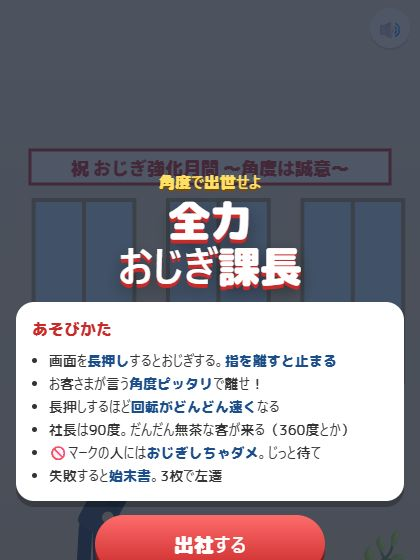
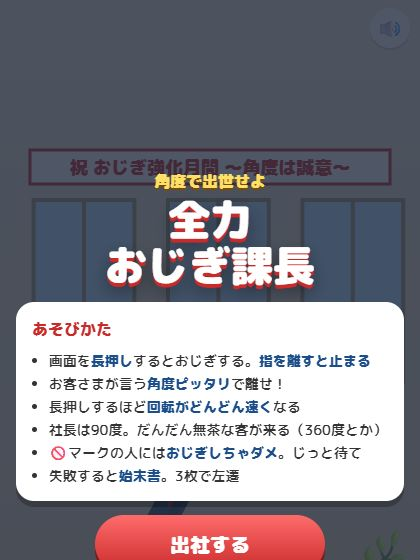
自動公開 / 更新: 全力おじぎ課長

Changed region(s): [[0.1238, 0.6071, 0.8976, 1.0], [0.2476, 0.2732, 0.8048, 0.5161], [0.1857, 0.2732, 0.2476, 0.3036]]

diff --git a/apps/zenryoku-ojigi/index.html b/apps/zenryoku-ojigi/index.html
@@ -85,7 +85,7 @@ button{font-family:inherit;color:inherit;border:0;background:none;cursor:pointer
 
 <script>
 /*! © kato200000354. 無断転載・複製・再配布を禁止します。 */
-(()=>{const t=document.getElementById("cv"),e=t.getContext("2d"),n=t=>document.getElementById(t);let o=0,a=0,i=1;function l(){i=Math.min(2,window.devicePixelRatio||1),o=innerWidth,a=innerHeight,t.width=o*i,t.height=a*i,t.style.width=o+"px",t.style.height=a+"px",e.setTransform(i,0,0,i,0,0)}addEventListener("resize",l),l();const r="zenryoku-ojigi-best";let s=null,f=!1,c=null;function d(){if(!s)try{s=new(window.AudioContext||window.webkitAudioContext)}catch(t){}return s&&"suspended"===s.state&&s.resume(),s}function h(t,e,n="square",o=.12,a=null,i=0){const l=d();if(!l||f)return;const r=l.currentTime+i,s=l.createOscillator(),c=l.createGain();s.type=n,s.frequency.setValueAtTime(t,r),a&&s.frequency.exponentialRampToValueAtTime(a,r+e),c.gain.setValueAtTime(o,r),c.gain.exponentialRampToValueAtTime(.001,r+e),s.connect(c).connect(l.destination),s.start(r),s.stop(r+e+.02)}function u(t,e=.2,n=800){const o=d();if(!o||f)return;const a=o.createBuffer(1,o.sampleRate*t,o.sampleRate),i=a.getChannelData(0);for(let t=0;t<i.length;t++)i[t]=(2*Math.random()-1)*(1-t/i.length);const l=o.createBufferSource(),r=o.createBiquadFilter(),s=o.createGain();r.type="highpass",r.frequency.value=n,s.gain.value=e,l.buffer=a,l.connect(r).connect(s).connect(o.destination),l.start()}function m(){if(c){try{c.g.gain.setTargetAtTime(0,s.currentTime,.02),c.o.stop(s.currentTime+.1)}catch(t){}c=null}}const y={peko(){h(880,.08,"square",.1,660)},perfect(){[784,988,1175,1568].forEach((t,e)=>h(t,.14,"square",.09,null,.07*e))},good(){h(660,.1,"triangle",.15),h(880,.15,"triangle",.15,null,.08)},fail(){h(220,.35,"sawtooth",.13,110)},blow(){u(.6,.35,300),h(400,.5,"sine",.1,1600)},step(){h(180,.04,"triangle",.06)},thru(){h(523,.1,"sine",.12),h(659,.12,"sine",.12,null,.09)},paper(){u(.25,.2,2e3)}};n("mute").onclick=t=>{t.stopPropagation(),f=!f,n("mute").textContent=f?"🔇":"🔊",f&&m()};const g=[{n:"後輩",e:"🧑",t:[5,15],say:["ちっす","おつかれっす","会釈でいいっすよ"],c:"#4dabf7",from:0,w:3},{n:"部長",e:"👨💼",t:[30,30],say:["おう","ご苦労","30度な"],c:"#495057",from:0,w:3},{n:"取引先",e:"🧔",t:[45,45],say:["例の件、よろしく","どうもどうも"],c:"#868e96",from:0,w:3},{n:"社長",e:"👴",t:[90,90],say:["うむ","直角じゃ"],c:"#212529",from:1,w:3},{n:"猫",e:"🐈",ig:1,say:["にゃー（見てるだけ）","……"],from:2,w:1.2,sz:.8,body:0},{n:"母ちゃん",e:"👩",t:[7,7],say:["お弁当忘れてたよ","ちゃんと食べてる？"],c:"#f783ac",from:3,w:1},{n:"気まぐれ専務",e:"🤵",t:[11,170],say:["なんとなくこの角度","今日はこの気分"],c:"#5f3dc4",from:3,w:2},{n:"ハト",e:"🕊",t:[1,1],say:["ポッポー","クルックー"],from:4,w:1,sz:.7,body:0},{n:"会長",e:"🧓",t:[120,135],say:["90度では満足せんぞ","もっと深く！"],c:"#2b8a3e",from:4,w:2},{n:"あやしい勧誘",e:"🕴",ig:1,say:["いい壺あるんですけど…","ちょっとだけお話を"],from:5,w:1.3,sz:1,body:0},{n:"王様",e:"🤴",t:[150,160],say:["ひれ伏せ","余の前であるぞ"],c:"#e67700",from:6,w:1.5},{n:"モアイ",e:"🗿",t:[180,180],say:["……（180度）","……"],from:7,w:1.4,sz:1.6,body:0},{n:"マネキン",e:"🧍",ig:1,say:["…………","（無言）"],from:7,w:.9,sz:1.3,body:0},{n:"恐竜",e:"🦖",t:[270,270],say:["ガオー（270度で）","ガオガオ"],from:8,w:1.3,sz:1.6,body:0},{n:"ロボ",e:"🤖",t:[314,314],say:["円周率×100デ オネガイシマス","ピピ…314度"],c:"#adb5bd",from:9,w:1.2},{n:"宇宙人",e:"👽",t:[360,360],say:["ワレワレハ 一周ヲ 所望スル","ちょうど一周で"],c:"#69db7c",from:9,w:1.3},{n:"天使",e:"😇",t:[720,720],say:["二周でお願いね","くるくるっとね"],c:"#fff",from:12,w:1},{n:"忍者",e:"🥷",t:[450,540],say:["ニンニン（中途半端な周回で）","拙者にはこの角度で"],c:"#343a40",from:11,w:1},{n:"神",e:"🌞",t:[1080,1080],say:["三周せよ","我を敬え。三周で"],from:15,w:.9,sz:1.5,body:0},{n:"地球",e:"🌏",t:[1800,1800],say:["ぼくに5周して","自転より速く"],from:20,w:.6,sz:1.8,body:0}],M=122,x=235;let b="title",p=0,T=0,S=0,v=3,w=0,k=function(){try{return+localStorage.getItem(r)||0}catch(t){return 0}}(),P=0,L=0,R=0,A=!1,z=80,C=0,W=[],q=null,B=null,I=0,j=null,E=[],U=[],D=0,G=1,H=0,V=0,F=0,O=0;performance.now();function K(){return Math.min(1.7,1+.025*w)}function J(){const t=function(){const t=g.filter(t=>t.from<=w&&t!==B&&!(t.ig&&B&&B.ig));let e=t.reduce((t,e)=>t+e.w,0),n=Math.random()*e;for(const e of t)if(n-=e.w,n<=0)return e;return t[0]}();B=t;const e=t.ig?null:Math.round(t.t[0]+Math.random()*(t.t[1]-t.t[0])),n=t.ig?2.4:Math.max(2.4,function(t){const e=K(),n=60*e,o=40*e;return(-o+Math.sqrt(o*o+4*n*t))/(2*n)}(e)+3.6-Math.min(1.4,.05*w));q={d:t,target:e,x:620,y:0,rot:0,vx:0,vy:0,tilt:0,state:"in",say:t.say[Math.random()*t.say.length|0],pmax:n,p:n,react:null,mood:0},b="walkin"}function N(){p=0,T=0,S=0,v=3,w=0,H=0,V=0,F=0,O=0,P=0,z=80,C=0,B=null,E=[],U=[],n("title").hidden=!0,n("over").hidden=!0,n("hud").hidden=!1,Q(),J()}function Q(){n("hScore").innerHTML="<b>"+p.toLocaleString()+"</b> 点",n("hCombo").hidden=T<2,n("hCombo").textContent=T+"コンボ",n("hLife").textContent="始末書 "+(3-v)+"/3"+(1===v?" ⚠":"")}function X(){d(),"wait"===b&&(A=!0,R=0,L=0,b="bowing",function(){const t=d();if(!t||f)return;const e=t.createOscillator(),n=t.createGain();e.type="sawtooth",e.frequency.value=120,n.gain.value=.04,e.connect(n).connect(t.destination),e.start(),c={o:e,g:n}}())}function Y(){A&&(A=!1,m(),"bowing"===b&&function(){y.peko(),O++;const t=q,e=P;if(H+=e,V=Math.max(V,e),t.d.ig){const e="猫"===t.d.n?["にゃ？（引いてる）","フシャー！"]:"マネキン"===t.d.n?["（マネキンにおじぎした…）","（周りの目が痛い）"]:["お話聞いてくれるんですね！","壺、3つでいいですか？"];return _("あやしい勧誘"===t.d.n?"壺を買わされた！":"おじぎしなくていい相手！",$(e),!1)}const n=t.target,o=e-n,a=Math.abs(o),i=Math.max(2.5,.035*n),l=Math.max(8,.1*n);if(a<=i){T++,F++,S=Math.max(S,T);const e=Math.round((300+1.5*n)*(1+.15*(T-1)));p+=e,t.react=$(["うむ、見事！","よきかな","なんと美しい…","ほう…！"]),t.mood=1,j={txt:$(Z.perfect),sub:"+"+e,col:"#f08c00",err:o},y.perfect(),function(t,e,n,o,a){for(let i=0;i<o;i++){const o=Math.random()*Math.PI*2,i=120+320*Math.random();U.push({x:t,y:e,vx:Math.cos(o)*i,vy:Math.sin(o)*i-100,life:.9+.4*Math.random(),ch:a,col:n,rot:0,vr:10*(Math.random()-.5),sz:14+12*Math.random(),g:500})}}(nt(105.75),ot(-z-60),"#ffd43b",26,"★")}else{if(!(a<=l))return o<0?_("浅い！ "+Math.round(e)+"°",$(["無礼者！","なめとんのか","浅すぎる！","それで頭下げたつもり？"]),!1):o>Math.max(30,.35*n)?_("深すぎて吹っ飛ばした！",$(["うわあああ","風圧がーー！","ぎゃー"]),!0):_("深すぎ… "+Math.round(e)+"°",$(["こわい","そこまでせんでも","気持ち悪い…","引くわ"]),!1);{const e=Math.round((100+.5*n)*(1+.05*T));p+=e,t.react=$(["まあいいだろう","ふむ","次はがんばれよ"]),t.mood=1,j={txt:$(Z.good),sub:"+"+e+"（"+(o>0?"+":"")+Math.round(o)+"°）",col:"#2f9e44",err:o},y.good()}}I=1,b="judge",Q()}())}t.addEventListener("pointerdown",t=>{t.preventDefault(),X()}),addEventListener("pointerup",Y),addEventListener("pointercancel",Y),addEventListener("keydown",t=>{"Space"!==t.code||t.repeat||(t.preventDefault(),X())}),addEventListener("keyup",t=>{"Space"===t.code&&Y()});const Z={perfect:["神おじぎ！","角度職人！","完璧な角度！","おじぎの鑑！"],good:["まあよし","ギリ許す","惜しいけどOK"]},$=t=>t[Math.random()*t.length|0];function _(t,e,n){T=0,v--,q.react=e,q.mood=-1,j={txt:t,sub:"始末書 +1",col:"#e03131",err:0},n?(y.blow(),D=.5,q.state="fly",q.vx=900,q.vy=-700):y.fail(),setTimeout(()=>y.paper(),250);for(let t=0;t<4;t++)U.push({x:o*Math.random(),y:-20-80*Math.random(),vx:60*(Math.random()-.5),vy:120+80*Math.random(),life:2.5,ch:"📄",rot:6*Math.random(),vr:6*(Math.random()-.5),sz:26});I=1.3,b="judge",Q()}let tt=0,et=0;function nt(t){return tt+t*G}function ot(t){return et+t*G}function at(t){et=.8*a,tt=.22*o;const e=Math.min(o/430,.5*a/250),i=z+M+40,l=(et-Math.max(150,.2*a))/i,f=Math.min(e,l);if(G+=(f-G)*Math.min(1,t*(f<G?14:3)),"walkin"===b)q.x-=300*t,(performance.now()/180|0)%2==0&&Math.random()<.1&&y.step(),q.x<=x&&(q.x=x,b="wait",q.state="wait");else if("wait"===b)q.p-=t,q.p<=0&&(q.p=0,q.d.ig?function(){T++,S=Math.max(S,T),O++;const t=200+10*T;p+=t,q.mood=1,q.react="あやしい勧誘"===q.d.n?"チッ…":"猫"===q.d.n?"にゃ（満足）":"…………",j={txt:"スルー成功！",sub:"+"+t,col:"#1c7ed6",err:0},y.thru(),I=.9,b="judge",Q()}():(O++,H+=0,_("シカトしてしまった！",$(["挨拶もできんのか！","おい、無視か？","ほう…いい度胸だ"]),!1)));else if("bowing"===b){R+=t;const e=K();L=(40+120*R)*e,W.unshift(P),W.length=Math.min(W.length,6),P+=L*t,d=L,c&&s&&c.o.frequency.setTargetAtTime(110+.55*Math.min(d,2e3),s.currentTime,.03),L>700&&Math.random()<.4&&U.push({x:nt(0)+40*(Math.random()-.5),y:ot(-z),vx:400*(Math.random()-.5),vy:-200-200*Math.random(),life:.8,ch:"💧",rot:0,vr:0,sz:14,g:900}),C=30*Math.floor(P/360),P>99999&&Y()}else if("judge"===b)I-=t,q.mood>0&&(q.tilt+=(-.5-q.tilt)*Math.min(1,8*t)),q.mood<0&&"fly"!==q.state&&(q.tilt=.06*Math.sin(performance.now()/40)),I<=0&&(b="leave",q.state="fly"===q.state?"fly":"out");else if("leave"===b&&(P+=(0-P)*Math.min(1,7*t),Math.abs(P)<.5&&(P=0),q.tilt+=(0-q.tilt)*Math.min(1,6*t),"out"===q.state&&(q.x+=360*t),(q.x>620||q.y<-900)&&0===P)){if(v<=0)return function(){b="over",m();let t=ft[0][1];for(const[e,n]of ft)p>=e&&(t=n);const e=p>k;e&&(k=p,function(t){try{localStorage.setItem(r,t)}catch(t){}}(k));n("overMsg").innerHTML="貴殿のおじぎを評価し<br>下記の通り任命する",n("overRank").textContent=t+"（"+$(ct)+"）",n("overTbl").innerHTML="<tr><td>スコア</td><td>"+p.toLocaleString()+" 点</td></tr><tr><td>対応した人数</td><td>"+O+" 人</td></tr><tr><td>神おじぎ</td><td>"+F+" 回</td></tr><tr><td>最大コンボ</td><td>"+S+"</td></tr><tr><td>最深おじぎ</td><td>"+Math.round(V).toLocaleString()+"°</td></tr><tr><td>生涯おじぎ角度</td><td>"+Math.round(H).toLocaleString()+"°</td></tr>",n("overBest").textContent=e?"🎉 自己ベスト更新！":"ベスト "+k.toLocaleString()+" 点",setTimeout(()=>{n("over").hidden=!1,n("hud").hidden=!0},400)}();w++,J()}var d;"bowing"!==b&&(W.length=0,C+=(0-C)*Math.min(1,3*t)),q&&"fly"===q.state&&(q.x+=q.vx*t,q.y+=q.vy*t,q.vy+=300*t,q.rot+=14*t);const h=Math.max(80,-Math.cos(P*Math.PI/180)*M+28)+C;z=h>z?h:z+(h-z)*Math.min(1,4*t);for(const e of U)e.x+=e.vx*t,e.y+=e.vy*t,e.vy+=(e.g||0)*t,e.rot+=e.vr*t,e.life-=t;U=U.filter(t=>t.life>0&&t.y<a+60),D=Math.max(0,D-t)}function it(t,n,o,a,i){e.beginPath(),e.roundRect?e.roundRect(t,n,o,a,i):e.rect(t,n,o,a)}function lt(t,n){e.save(),e.globalAlpha=n,e.translate(0,-z),e.rotate(t*Math.PI/180),e.fillStyle="#34495e",it(-18,-74,36,78,9),e.fill(),e.fillStyle="#fff",e.beginPath(),e.moveTo(-9,-74),e.lineTo(9,-74),e.lineTo(0,-46),e.fill(),e.fillStyle="#e03131",e.beginPath(),e.moveTo(-3,-70),e.lineTo(3,-70),e.lineTo(4,-50),e.lineTo(0,-44),e.lineTo(-4,-50),e.fill(),e.strokeStyle="#2c3e50",e.lineWidth=11,e.lineCap="round",e.beginPath(),e.moveTo(6,-66),e.lineTo(9,-22),e.stroke(),e.fillStyle="#ffd8b1",e.beginPath(),e.arc(9,-17,6,0,7),e.fill(),e.fillStyle="#ffd8b1",e.fillRect(-6,-82,12,10),e.beginPath(),e.arc(0,-98,24,0,7),e.fill(),e.fillStyle="#1e1e1e",e.beginPath(),e.arc(0,-98,25,1.02*Math.PI,1.98*Math.PI),e.lineTo(18,-104),e.quadraticCurveTo(0,-116,-10,-108),e.lineTo(-22,-100),e.fill(),e.strokeStyle="#fff",e.lineWidth=1.5,e.beginPath(),e.moveTo(-8,-122),e.lineTo(-10,-108),e.stroke(),e.strokeStyle="#222",e.lineWidth=2.5,e.beginPath(),e.arc(12,-97,6.5,0,7),e.stroke(),e.beginPath(),e.moveTo(5,-98),e.lineTo(-14,-100),e.stroke(),e.fillStyle="#222",e.beginPath(),e.arc(14,-97,2.2,0,7),e.fill(),e.strokeStyle="#8a3b12",e.lineWidth=2,e.beginPath(),"bowing"===b&&L>500?e.arc(15,-84,4,0,7):e.arc(14,-87,4,.2,Math.PI-.2),e.stroke(),T>=3&&(e.fillStyle="rgba(255,100,100,.4)",e.beginPath(),e.arc(6,-88,5,0,7),e.fill()),e.restore()}function rt(){if(!q||"fly"===q.state||"wait"!==b&&"bowing"!==b&&"judge"!==b)return;const t=q,n=nt(t.x),a=ot(function(){const t=q.d.sz||1;return 0!==q.d.body?-170*t:-110*t}()),i="judge"===b&&t.react,l=Math.min(o-20,210);e.font='800 14px "M PLUS Rounded 1c",sans-serif';const r=function(t,n){const o=[];let a="";for(const i of t)e.measureText(a+i).width>n&&a?(o.push(a),a=i):a+=i;return a&&o.push(a),o}(i?t.react:t.say,l-24),s=!i&&"judge"!==b,f=16+(i?0:18)+19*r.length+(s?36:0);let c=Math.max(10,Math.min(o-l-10,n-l/2)),d=Math.max(196,a-f-18);e.fillStyle=i?t.mood>0?"#fff9db":"#ffe3e3":"#fff",e.strokeStyle="#333",e.lineWidth=2.5,it(c,d,l,f,14),e.fill(),e.stroke(),e.beginPath(),e.moveTo(Math.min(Math.max(n-10,c+16),c+l-30),d+f-1),e.lineTo(n,Math.min(d+f+16,a-2)),e.lineTo(Math.min(Math.max(n+10,c+26),c+l-20),d+f-1),e.fill(),e.stroke(),e.fillStyle="#333",e.textAlign="left",e.textBaseline="top";let h=d+9;i||(e.fillStyle="#868e96",e.font='800 12px "M PLUS Rounded 1c",sans-serif',e.fillText(t.d.n,c+12,h),h+=18,e.font='800 14px "M PLUS Rounded 1c",sans-serif',e.fillStyle="#333");for(const t of r)e.fillText(t,c+12,h),h+=19;if(s&&(e.textAlign="center",e.font='900 28px "M PLUS Rounded 1c",sans-serif',t.d.ig?(e.fillStyle="#1c7ed6",e.fillText("🚫おじぎ不要",c+l/2,h+2)):(e.fillStyle="#e03131",e.fillText(t.target+"°",c+l/2,h+2))),"wait"===b){const o=80,a=n-o/2,i=ot(0)+14;e.fillStyle="rgba(0,0,0,.3)",it(a,i,o,8,4),e.fill();const l=t.p/t.pmax;e.fillStyle=t.d.ig?"#4dabf7":l<.3?"#fa5252":"#51cf66",it(a,i,o*l,8,4),e.fill()}}function st(){e.save(),D>0&&e.translate((Math.random()-.5)*D*30,(Math.random()-.5)*D*30),function(){const t=e.createLinearGradient(0,0,0,et);t.addColorStop(0,"#f4ecd8"),t.addColorStop(1,"#e2d4b4"),e.fillStyle=t,e.fillRect(0,0,o,et),e.fillStyle="#bfe3ff";const n=Math.min(120,.24*o);for(let t=0;t<3;t++){const a=.08*o+t*(n+.08*o),i=Math.max(200,.32*et);if(a+n>o)break;e.fillRect(a,i,n,.3*et),e.strokeStyle="#a89870",e.lineWidth=4,e.strokeRect(a,i,n,.3*et),e.beginPath(),e.moveTo(a+n/2,i),e.lineTo(a+n/2,i+.3*et),e.stroke()}const i=Math.min(.86*o,360),l=(o-i)/2,r=Math.max(150,.2*et);e.fillStyle="#fff",e.fillRect(l,r,i,34),e.strokeStyle="#c92a2a",e.lineWidth=3,e.strokeRect(l,r,i,34),e.fillStyle="#c92a2a",e.font='900 18px "M PLUS Rounded 1c",sans-serif',e.textAlign="center",e.textBaseline="middle",e.fillText("祝 おじぎ強化月間 ～角度は誠意～",o/2,r+18),e.fillStyle="#9aa3ad",e.fillRect(0,et,o,a-et),e.strokeStyle="rgba(255,255,255,.25)",e.lineWidth=2;for(let t=-10;t<=10;t++)e.beginPath(),e.moveTo(o/2+40*t,et),e.lineTo(o/2+140*t,a),e.stroke();for(let t=et+14,n=14;t<a;n*=1.4,t+=n)e.beginPath(),e.moveTo(0,t),e.lineTo(o,t),e.stroke();e.fillStyle="#6c757d",e.fillRect(0,et-4,o,6);const s=o-34,f=et;e.fillStyle="#8d5524",it(s-16,f-40,32,40,4),e.fill(),e.font="52px sans-serif",e.textBaseline="alphabetic",e.fillText("🌿",s,f-34)}(),e.save(),e.translate(tt,et),e.scale(G,G),e.fillStyle="rgba(0,0,0,.18)",e.beginPath(),e.ellipse(2,0,34,7,0,0,7),e.fill(),q&&"fly"!==q.state&&(e.beginPath(),e.ellipse(q.x,0,32*(q.d.sz||1),7,0,0,7),e.fill()),function(){if(!q||q.d.ig||"wait"!==b&&"bowing"!==b)return;e.save(),e.translate(0,-z);const t=144;e.strokeStyle="rgba(0,0,0,.18)",e.lineWidth=3,e.setLineDash([6,8]),e.beginPath(),e.arc(0,0,t,0,7),e.stroke(),e.setLineDash([]);const n=q.target*Math.PI/180;e.strokeStyle="rgba(224,49,49,.85)",e.lineWidth=5,e.beginPath(),e.moveTo(130*Math.sin(n),130*-Math.cos(n)),e.lineTo(158*Math.sin(n),158*-Math.cos(n)),e.stroke(),e.fillStyle="#e03131",e.beginPath(),e.arc(164*Math.sin(n),164*-Math.cos(n),5,0,7),e.fill(),e.restore()}(),function(){if(!q)return;const t=q,n=t.d,o=n.sz||1;e.save(),e.translate(t.x,t.y),"fly"===t.state&&(e.translate(0,-80*o),e.rotate(t.rot),e.translate(0,80*o)),e.scale(o,o),e.textAlign="center",e.textBaseline="middle";const a="walkin"===b||"out"===t.state?.35*Math.sin(performance.now()/70):0;0!==n.body?(e.strokeStyle="#222",e.lineWidth=12,e.lineCap="round",e.beginPath(),e.moveTo(-6,-50),e.lineTo(24*Math.sin(a)-6,-6),e.moveTo(6,-50),e.lineTo(6-24*Math.sin(a),-6),e.stroke(),e.translate(0,-50),e.rotate(t.tilt),e.fillStyle=n.c||"#555",it(-21,-66,42,70,11),e.fill(),e.strokeStyle="rgba(0,0,0,.15)",e.lineWidth=2,e.stroke(),e.font="58px sans-serif",e.fillText(n.e,0,-92)):(e.translate(0,-10),e.rotate(.6*t.tilt+.15*a),e.font="90px sans-serif",e.fillText(n.e,0,-38)),e.restore()}(),e.strokeStyle="#2b3a55",e.lineWidth=14,e.lineCap="round",e.beginPath(),e.moveTo(-7,-z),e.lineTo(-11,-8),e.moveTo(7,-z),e.lineTo(9,-8),e.stroke(),e.fillStyle="#111",e.beginPath(),e.ellipse(-6,-4,13,6,0,0,7),e.ellipse(15,-4,13,6,0,0,7),e.fill(),z>100&&(e.fillStyle="#2b3a55",e.font="900 12px sans-serif",e.textAlign="center",e.fillStyle="rgba(0,0,0,.35)",e.fillText("ﾋﾞﾖｰﾝ",-30,-z/2)),W.forEach((t,e)=>{L>300&&e%2==1&&lt(t,.18)}),lt(P,1),e.restore(),rt(),function(){if("title"===b)return;const t=Math.max(82,.11*a);if(e.textAlign="center",e.textBaseline="middle",q&&("wait"===b||"bowing"===b||"judge"===b)&&!q.d.ig){e.font="900 "+Math.min(64,.16*o)+'px "M PLUS Rounded 1c",sans-serif',e.lineWidth=8,e.strokeStyle="#fff",e.strokeText(Math.floor(P)+"°",o/2,t),e.fillStyle="bowing"===b?"#c92a2a":"#34495e",e.fillText(Math.floor(P)+"°",o/2,t),e.font='800 15px "M PLUS Rounded 1c",sans-serif',e.fillStyle="#495057";const n=q.target,a=Math.floor(n/360);e.fillText("目標 "+n+"°"+(a?"（"+a+"周＋"+n%360+"°）":""),o/2,t+Math.min(40,.1*o))}if("wait"===b&&w<2&&(e.font='900 18px "M PLUS Rounded 1c",sans-serif',e.fillStyle="rgba(0,0,0,.55)",e.fillText(q.d.ig?"押さずに待て…":"長押しでおじぎ → 目標で離す！",o/2,et+.55*(a-et))),"judge"===b&&j){const t=.6+.4*Math.min(1,6*(1.3-I))+0;e.save(),e.translate(o/2,.42*a),e.scale(t,t),e.font="900 "+Math.min(48,.11*o,(o-28)/j.txt.length)+'px "M PLUS Rounded 1c",sans-serif',e.lineWidth=9,e.strokeStyle="#fff",e.strokeText(j.txt,0,0),e.fillStyle=j.col,e.fillText(j.txt,0,0),e.font='900 22px "M PLUS Rounded 1c",sans-serif',e.lineWidth=6,e.strokeText(j.sub,0,44),e.fillText(j.sub,0,44),e.restore()}}(),function(){e.textAlign="center",e.textBaseline="middle";for(const t of U)e.save(),e.globalAlpha=Math.min(1,2*t.life),e.translate(t.x,t.y),e.rotate(t.rot),"★"===t.ch?(e.fillStyle=t.col,e.font="900 "+t.sz+"px sans-serif",e.fillText("★",0,0)):(e.font=t.sz+"px sans-serif",e.fillText(t.ch,0,0)),e.restore()}(),e.restore()}const ft=[[0,"新入社員"],[1500,"係長"],[4e3,"課長"],[8e3,"部長"],[14e3,"専務"],[22e3,"社長"],[35e3,"会長"],[5e4,"おじぎの神"]],ct=["南極支社","月面出張所","無人島営業所","地下100m支店","火星支社","砂漠の真ん中出張所"];n("bStart").onclick=()=>{d(),N()},n("bRetry").onclick=()=>{d(),N()},n("bestT").textContent=k?"ベスト "+k.toLocaleString()+" 点":"";let dt=performance.now();requestAnimationFrame(function t(e){const n=Math.min(.05,(e-dt)/1e3);dt=e,"title"!==b&&"over"!==b||"title"!==b?at(n):function(t){et=.8*a,tt=.22*o;const e=performance.now()/1e3;P=200*(.5*Math.sin(1.3*e)+.5);const n=Math.max(80,-Math.cos(P*Math.PI/180)*M+28);z=n>z?n:z+(n-z)*Math.min(1,4*t);const i=Math.min(o/430,.5*a/250);G=Math.min(i,(et-150)/(z+M+40))}(n),st(),requestAnimationFrame(t)})})();
+(()=>{const t=document.getElementById("cv"),e=t.getContext("2d"),n=t=>document.getElementById(t);let o=0,a=0,i=1;function l(){i=Math.min(2,window.devicePixelRatio||1),o=innerWidth,a=innerHeight,t.width=o*i,t.height=a*i,t.style.width=o+"px",t.style.height=a+"px",e.setTransform(i,0,0,i,0,0)}addEventListener("resize",l),l();const r="zenryoku-ojigi-best";let s=null,f=!1,c=null;function d(){if(!s)try{s=new(window.AudioContext||window.webkitAudioContext)}catch(t){}return s&&"suspended"===s.state&&s.resume(),s}function h(t,e,n="square",o=.12,a=null,i=0){const l=d();if(!l||f)return;const r=l.currentTime+i,s=l.createOscillator(),c=l.createGain();s.type=n,s.frequency.setValueAtTime(t,r),a&&s.frequency.exponentialRampToValueAtTime(a,r+e),c.gain.setValueAtTime(o,r),c.gain.exponentialRampToValueAtTime(.001,r+e),s.connect(c).connect(l.destination),s.start(r),s.stop(r+e+.02)}function u(t,e=.2,n=800){const o=d();if(!o||f)return;const a=o.createBuffer(1,o.sampleRate*t,o.sampleRate),i=a.getChannelData(0);for(let t=0;t<i.length;t++)i[t]=(2*Math.random()-1)*(1-t/i.length);const l=o.createBufferSource(),r=o.createBiquadFilter(),s=o.createGain();r.type="highpass",r.frequency.value=n,s.gain.value=e,l.buffer=a,l.connect(r).connect(s).connect(o.destination),l.start()}function m(){if(c){try{c.g.gain.setTargetAtTime(0,s.currentTime,.02),c.o.stop(s.currentTime+.1)}catch(t){}c=null}}const y={peko(){h(880,.08,"square",.1,660)},perfect(){[784,988,1175,1568].forEach((t,e)=>h(t,.14,"square",.09,null,.07*e))},good(){h(660,.1,"triangle",.15),h(880,.15,"triangle",.15,null,.08)},fail(){h(220,.35,"sawtooth",.13,110)},blow(){u(.6,.35,300),h(400,.5,"sine",.1,1600)},step(){h(180,.04,"triangle",.06)},thru(){h(523,.1,"sine",.12),h(659,.12,"sine",.12,null,.09)},paper(){u(.25,.2,2e3)}};n("mute").onclick=t=>{t.stopPropagation(),f=!f,n("mute").textContent=f?"🔇":"🔊",f&&m()};const g=[{n:"後輩",e:"🧑",t:[5,15],say:["ちっす","おつかれっす","会釈でいいっすよ"],c:"#4dabf7",from:0,w:3},{n:"部長",e:"👨💼",t:[30,30],say:["おう","ご苦労","30度な"],c:"#495057",from:0,w:3},{n:"取引先",e:"🧔",t:[45,45],say:["例の件、よろしく","どうもどうも"],c:"#868e96",from:0,w:3},{n:"社長",e:"👴",t:[90,90],say:["うむ","直角じゃ"],c:"#212529",from:1,w:3},{n:"猫",e:"🐈",ig:1,say:["にゃー（見てるだけ）","……"],from:2,w:1.2,sz:.8,body:0},{n:"母ちゃん",e:"👩",t:[7,7],say:["お弁当忘れてたよ","ちゃんと食べてる？"],c:"#f783ac",from:3,w:1},{n:"気まぐれ専務",e:"🤵",t:[11,170],say:["なんとなくこの角度","今日はこの気分"],c:"#5f3dc4",from:3,w:2},{n:"ハト",e:"🕊",t:[1,1],say:["ポッポー","クルックー"],from:4,w:1,sz:.7,body:0},{n:"会長",e:"🧓",t:[120,135],say:["90度では満足せんぞ","もっと深く！"],c:"#2b8a3e",from:4,w:2},{n:"あやしい勧誘",e:"🕴",ig:1,say:["いい壺あるんですけど…","ちょっとだけお話を"],from:5,w:1.3,sz:1,body:0},{n:"王様",e:"🤴",t:[150,160],say:["ひれ伏せ","余の前であるぞ"],c:"#e67700",from:6,w:1.5},{n:"モアイ",e:"🗿",t:[180,180],say:["……（180度）","……"],from:7,w:1.4,sz:1.6,body:0},{n:"マネキン",e:"🧍",ig:1,say:["…………","（無言）"],from:7,w:.9,sz:1.3,body:0},{n:"恐竜",e:"🦖",t:[270,270],say:["ガオー（270度で）","ガオガオ"],from:8,w:1.3,sz:1.6,body:0},{n:"ロボ",e:"🤖",t:[314,314],say:["円周率×100デ オネガイシマス","ピピ…314度"],c:"#adb5bd",from:9,w:1.2},{n:"宇宙人",e:"👽",t:[360,360],say:["ワレワレハ 一周ヲ 所望スル","ちょうど一周で"],c:"#69db7c",from:9,w:1.3},{n:"天使",e:"😇",t:[720,720],say:["二周でお願いね","くるくるっとね"],c:"#fff",from:12,w:1},{n:"忍者",e:"🥷",t:[450,540],say:["ニンニン（中途半端な周回で）","拙者にはこの角度で"],c:"#343a40",from:11,w:1},{n:"神",e:"🌞",t:[1080,1080],say:["三周せよ","我を敬え。三周で"],from:15,w:.9,sz:1.5,body:0},{n:"地球",e:"🌏",t:[1800,1800],say:["ぼくに5周して","自転より速く"],from:20,w:.6,sz:1.8,body:0}],M=122,x=235;let b="title",p=0,T=0,S=0,v=3,w=0,k=function(){try{return+localStorage.getItem(r)||0}catch(t){return 0}}(),P=0,L=0,R=0,A=!1,z=80,C=0,W=[],q=null,B=null,I=0,j=null,E=[],U=[],D=0,G=1,H=0,V=0,F=0,O=0;performance.now();function K(){return Math.min(1.7,1+.025*w)}function J(){const t=function(){const t=g.filter(t=>t.from<=w&&t!==B&&!(t.ig&&B&&B.ig));let e=t.reduce((t,e)=>t+e.w,0),n=Math.random()*e;for(const e of t)if(n-=e.w,n<=0)return e;return t[0]}();B=t;const e=t.ig?null:Math.round(t.t[0]+Math.random()*(t.t[1]-t.t[0])),n=t.ig?2.4:Math.max(2.4,function(t){const e=K(),n=60*e,o=40*e;return(-o+Math.sqrt(o*o+4*n*t))/(2*n)}(e)+3.6-Math.min(1.4,.05*w));q={d:t,target:e,x:620,y:0,rot:0,vx:0,vy:0,tilt:0,state:"in",say:t.say[Math.random()*t.say.length|0],pmax:n,p:n,react:null,mood:0},b="walkin"}function N(){p=0,T=0,S=0,v=3,w=0,H=0,V=0,F=0,O=0,P=0,z=80,C=0,B=null,E=[],U=[],n("title").hidden=!0,n("over").hidden=!0,n("hud").hidden=!1,Q(),J()}function Q(){n("hScore").innerHTML="<b>"+p.toLocaleString()+"</b> 点",n("hCombo").hidden=T<2,n("hCombo").textContent=T+"コンボ",n("hLife").textContent="始末書 "+(3-v)+"/3"+(1===v?" ⚠":"")}function X(){d(),"wait"===b&&(A=!0,R=0,L=0,b="bowing",function(){const t=d();if(!t||f)return;const e=t.createOscillator(),n=t.createGain();e.type="sawtooth",e.frequency.value=120,n.gain.value=.04,e.connect(n).connect(t.destination),e.start(),c={o:e,g:n}}())}function Y(){A&&(A=!1,m(),"bowing"===b&&function(){y.peko(),O++;const t=q,e=P;if(H+=e,V=Math.max(V,e),t.d.ig){const e="猫"===t.d.n?["にゃ？（引いてる）","フシャー！"]:"マネキン"===t.d.n?["（マネキンにおじぎした…）","（周りの目が痛い）"]:["お話聞いてくれるんですね！","壺、3つでいいですか？"];return _("あやしい勧誘"===t.d.n?"壺を買わされた！":"おじぎしなくていい相手！",$(e),!1)}const n=t.target,o=e-n,a=Math.abs(o),i=Math.max(2.5,.035*n),l=Math.max(8,.1*n);if(a<=i){T++,F++,S=Math.max(S,T);const e=Math.round((300+1.5*n)*(1+.15*(T-1)));p+=e,t.react=$(["うむ、見事！","よきかな","なんと美しい…","ほう…！"]),t.mood=1,j={txt:$(Z.perfect),sub:"+"+e,col:"#f08c00",err:o},y.perfect(),function(t,e,n,o,a){for(let i=0;i<o;i++){const o=Math.random()*Math.PI*2,i=120+320*Math.random();U.push({x:t,y:e,vx:Math.cos(o)*i,vy:Math.sin(o)*i-100,life:.9+.4*Math.random(),ch:a,col:n,rot:0,vr:10*(Math.random()-.5),sz:14+12*Math.random(),g:500})}}(nt(105.75),ot(-z-60),"#ffd43b",26,"★")}else{if(!(a<=l))return o<0?_("浅い！ "+Math.round(e)+"°",$(["無礼者！","なめとんのか","浅すぎる！","それで頭下げたつもり？"]),!1):o>Math.max(30,.35*n)?_("深すぎて吹っ飛ばした！",$(["うわあああ","風圧がーー！","ぎゃー"]),!0):_("深すぎ… "+Math.round(e)+"°",$(["こわい","そこまでせんでも","気持ち悪い…","引くわ"]),!1);{const e=Math.round((100+.5*n)*(1+.05*T));p+=e,t.react=$(["まあいいだろう","ふむ","次はがんばれよ"]),t.mood=1,j={txt:$(Z.good),sub:"+"+e+"（"+(o>0?"+":"")+Math.round(o)+"°）",col:"#2f9e44",err:o},y.good()}}I=1,b="judge",Q()}())}t.addEventListener("pointerdown",t=>{t.preventDefault(),X()}),addEventListener("pointerup",Y),addEventListener("pointercancel",Y),addEventListener("keydown",t=>{"Space"!==t.code||t.repeat||(t.preventDefault(),X())}),addEventListener("keyup",t=>{"Space"===t.code&&Y()});const Z={perfect:["神おじぎ！","角度職人！","完璧な角度！","おじぎの鑑！"],good:["まあよし","ギリ許す","惜しいけどOK"]},$=t=>t[Math.random()*t.length|0];function _(t,e,n){T=0,v--,q.react=e,q.mood=-1,j={txt:t,sub:"始末書 +1",col:"#e03131",err:0},n?(y.blow(),D=.5,q.state="fly",q.vx=900,q.vy=-700):y.fail(),setTimeout(()=>y.paper(),250);for(let t=0;t<4;t++)U.push({x:o*Math.random(),y:-20-80*Math.random(),vx:60*(Math.random()-.5),vy:120+80*Math.random(),life:2.5,ch:"📄",rot:6*Math.random(),vr:6*(Math.random()-.5),sz:26});I=1.3,b="judge",Q()}let tt=0,et=0;function nt(t){return tt+t*G}function ot(t){return et+t*G}function at(t){et=.8*a;const e=Math.min((o-16)/485,.5*a/250),i=z+M+40,l=(et-Math.max(150,.2*a))/i,f=Math.min(e,l);if(G+=(f-G)*Math.min(1,t*(f<G?14:3)),tt=8+172*G,"walkin"===b)q.x-=300*t,(performance.now()/180|0)%2==0&&Math.random()<.1&&y.step(),q.x<=x&&(q.x=x,b="wait",q.state="wait");else if("wait"===b)q.p-=t,q.p<=0&&(q.p=0,q.d.ig?function(){T++,S=Math.max(S,T),O++;const t=200+10*T;p+=t,q.mood=1,q.react="あやしい勧誘"===q.d.n?"チッ…":"猫"===q.d.n?"にゃ（満足）":"…………",j={txt:"スルー成功！",sub:"+"+t,col:"#1c7ed6",err:0},y.thru(),I=.9,b="judge",Q()}():(O++,H+=0,_("シカトしてしまった！",$(["挨拶もできんのか！","おい、無視か？","ほう…いい度胸だ"]),!1)));else if("bowing"===b){R+=t;const e=K();L=(40+120*R)*e,W.unshift(P),W.length=Math.min(W.length,6),P+=L*t,d=L,c&&s&&c.o.frequency.setTargetAtTime(110+.55*Math.min(d,2e3),s.currentTime,.03),L>700&&Math.random()<.4&&U.push({x:nt(0)+40*(Math.random()-.5),y:ot(-z),vx:400*(Math.random()-.5),vy:-200-200*Math.random(),life:.8,ch:"💧",rot:0,vr:0,sz:14,g:900}),C=30*Math.floor(P/360),P>99999&&Y()}else if("judge"===b)I-=t,q.mood>0&&(q.tilt+=(-.5-q.tilt)*Math.min(1,8*t)),q.mood<0&&"fly"!==q.state&&(q.tilt=.06*Math.sin(performance.now()/40)),I<=0&&(b="leave",q.state="fly"===q.state?"fly":"out");else if("leave"===b&&(P+=(0-P)*Math.min(1,7*t),Math.abs(P)<.5&&(P=0),q.tilt+=(0-q.tilt)*Math.min(1,6*t),"out"===q.state&&(q.x+=360*t),(q.x>620||q.y<-900)&&0===P)){if(v<=0)return function(){b="over",m();let t=ft[0][1];for(const[e,n]of ft)p>=e&&(t=n);const e=p>k;e&&(k=p,function(t){try{localStorage.setItem(r,t)}catch(t){}}(k));n("overMsg").innerHTML="貴殿のおじぎを評価し<br>下記の通り任命する",n("overRank").textContent=t+"（"+$(ct)+"）",n("overTbl").innerHTML="<tr><td>スコア</td><td>"+p.toLocaleString()+" 点</td></tr><tr><td>対応した人数</td><td>"+O+" 人</td></tr><tr><td>神おじぎ</td><td>"+F+" 回</td></tr><tr><td>最大コンボ</td><td>"+S+"</td></tr><tr><td>最深おじぎ</td><td>"+Math.round(V).toLocaleString()+"°</td></tr><tr><td>生涯おじぎ角度</td><td>"+Math.round(H).toLocaleString()+"°</td></tr>",n("overBest").textContent=e?"🎉 自己ベスト更新！":"ベスト "+k.toLocaleString()+" 点",setTimeout(()=>{n("over").hidden=!1,n("hud").hidden=!0},400)}();w++,J()}var d;"bowing"!==b&&(W.length=0,C+=(0-C)*Math.min(1,3*t)),q&&"fly"===q.state&&(q.x+=q.vx*t,q.y+=q.vy*t,q.vy+=300*t,q.rot+=14*t);const h=Math.max(80,-Math.cos(P*Math.PI/180)*M+28)+C;z=h>z?h:z+(h-z)*Math.min(1,4*t);for(const e of U)e.x+=e.vx*t,e.y+=e.vy*t,e.vy+=(e.g||0)*t,e.rot+=e.vr*t,e.life-=t;U=U.filter(t=>t.life>0&&t.y<a+60),D=Math.max(0,D-t)}function it(t,n,o,a,i){e.beginPath(),e.roundRect?e.roundRect(t,n,o,a,i):e.rect(t,n,o,a)}function lt(t,n){e.save(),e.globalAlpha=n,e.translate(0,-z),e.rotate(t*Math.PI/180),e.fillStyle="#34495e",it(-18,-74,36,78,9),e.fill(),e.fillStyle="#fff",e.beginPath(),e.moveTo(-9,-74),e.lineTo(9,-74),e.lineTo(0,-46),e.fill(),e.fillStyle="#e03131",e.beginPath(),e.moveTo(-3,-70),e.lineTo(3,-70),e.lineTo(4,-50),e.lineTo(0,-44),e.lineTo(-4,-50),e.fill(),e.strokeStyle="#2c3e50",e.lineWidth=11,e.lineCap="round",e.beginPath(),e.moveTo(6,-66),e.lineTo(9,-22),e.stroke(),e.fillStyle="#ffd8b1",e.beginPath(),e.arc(9,-17,6,0,7),e.fill(),e.fillStyle="#ffd8b1",e.fillRect(-6,-82,12,10),e.beginPath(),e.arc(0,-98,24,0,7),e.fill(),e.fillStyle="#1e1e1e",e.beginPath(),e.arc(0,-98,25,1.02*Math.PI,1.98*Math.PI),e.lineTo(18,-104),e.quadraticCurveTo(0,-116,-10,-108),e.lineTo(-22,-100),e.fill(),e.strokeStyle="#fff",e.lineWidth=1.5,e.beginPath(),e.moveTo(-8,-122),e.lineTo(-10,-108),e.stroke(),e.strokeStyle="#222",e.lineWidth=2.5,e.beginPath(),e.arc(12,-97,6.5,0,7),e.stroke(),e.beginPath(),e.moveTo(5,-98),e.lineTo(-14,-100),e.stroke(),e.fillStyle="#222",e.beginPath(),e.arc(14,-97,2.2,0,7),e.fill(),e.strokeStyle="#8a3b12",e.lineWidth=2,e.beginPath(),"bowing"===b&&L>500?e.arc(15,-84,4,0,7):e.arc(14,-87,4,.2,Math.PI-.2),e.stroke(),T>=3&&(e.fillStyle="rgba(255,100,100,.4)",e.beginPath(),e.arc(6,-88,5,0,7),e.fill()),e.restore()}function rt(){if(!q||"fly"===q.state||"wait"!==b&&"bowing"!==b&&"judge"!==b)return;const t=q,n=nt(t.x),a=ot(function(){const t=q.d.sz||1;return 0!==q.d.body?-170*t:-110*t}()),i="judge"===b&&t.react,l=Math.min(o-20,210);e.font='800 14px "M PLUS Rounded 1c",sans-serif';const r=function(t,n){const o=[];let a="";for(const i of t)e.measureText(a+i).width>n&&a?(o.push(a),a=i):a+=i;return a&&o.push(a),o}(i?t.react:t.say,l-24),s=!i&&"judge"!==b,f=16+(i?0:18)+19*r.length+(s?36:0);let c=Math.max(10,Math.min(o-l-10,n-l/2)),d=Math.max(196,a-f-18);e.fillStyle=i?t.mood>0?"#fff9db":"#ffe3e3":"#fff",e.strokeStyle="#333",e.lineWidth=2.5,it(c,d,l,f,14),e.fill(),e.stroke(),e.beginPath(),e.moveTo(Math.min(Math.max(n-10,c+16),c+l-30),d+f-1),e.lineTo(n,Math.min(d+f+16,a-2)),e.lineTo(Math.min(Math.max(n+10,c+26),c+l-20),d+f-1),e.fill(),e.stroke(),e.fillStyle="#333",e.textAlign="left",e.textBaseline="top";let h=d+9;i||(e.fillStyle="#868e96",e.font='800 12px "M PLUS Rounded 1c",sans-serif',e.fillText(t.d.n,c+12,h),h+=18,e.font='800 14px "M PLUS Rounded 1c",sans-serif',e.fillStyle="#333");for(const t of r)e.fillText(t,c+12,h),h+=19;if(s&&(e.textAlign="center",e.font='900 28px "M PLUS Rounded 1c",sans-serif',t.d.ig?(e.fillStyle="#1c7ed6",e.fillText("🚫おじぎ不要",c+l/2,h+2)):(e.fillStyle="#e03131",e.fillText(t.target+"°",c+l/2,h+2))),"wait"===b){const o=80,a=n-o/2,i=ot(0)+14;e.fillStyle="rgba(0,0,0,.3)",it(a,i,o,8,4),e.fill();const l=t.p/t.pmax;e.fillStyle=t.d.ig?"#4dabf7":l<.3?"#fa5252":"#51cf66",it(a,i,o*l,8,4),e.fill()}}function st(){e.save(),D>0&&e.translate((Math.random()-.5)*D*30,(Math.random()-.5)*D*30),function(){const t=e.createLinearGradient(0,0,0,et);t.addColorStop(0,"#f4ecd8"),t.addColorStop(1,"#e2d4b4"),e.fillStyle=t,e.fillRect(0,0,o,et),e.fillStyle="#bfe3ff";const n=Math.min(120,.24*o);for(let t=0;t<3;t++){const a=.08*o+t*(n+.08*o),i=Math.max(200,.32*et);if(a+n>o)break;e.fillRect(a,i,n,.3*et),e.strokeStyle="#a89870",e.lineWidth=4,e.strokeRect(a,i,n,.3*et),e.beginPath(),e.moveTo(a+n/2,i),e.lineTo(a+n/2,i+.3*et),e.stroke()}const i=Math.min(.86*o,360),l=(o-i)/2,r=Math.max(150,.2*et);e.fillStyle="#fff",e.fillRect(l,r,i,34),e.strokeStyle="#c92a2a",e.lineWidth=3,e.strokeRect(l,r,i,34),e.fillStyle="#c92a2a",e.font='900 18px "M PLUS Rounded 1c",sans-serif',e.textAlign="center",e.textBaseline="middle",e.fillText("祝 おじぎ強化月間 ～角度は誠意～",o/2,r+18),e.fillStyle="#9aa3ad",e.fillRect(0,et,o,a-et),e.strokeStyle="rgba(255,255,255,.25)",e.lineWidth=2;for(let t=-10;t<=10;t++)e.beginPath(),e.moveTo(o/2+40*t,et),e.lineTo(o/2+140*t,a),e.stroke();for(let t=et+14,n=14;t<a;n*=1.4,t+=n)e.beginPath(),e.moveTo(0,t),e.lineTo(o,t),e.stroke();e.fillStyle="#6c757d",e.fillRect(0,et-4,o,6);const s=o-34,f=et;e.fillStyle="#8d5524",it(s-16,f-40,32,40,4),e.fill(),e.font="52px sans-serif",e.textBaseline="alphabetic",e.fillText("🌿",s,f-34)}(),e.save(),e.translate(tt,et),e.scale(G,G),e.fillStyle="rgba(0,0,0,.18)",e.beginPath(),e.ellipse(2,0,34,7,0,0,7),e.fill(),q&&"fly"!==q.state&&(e.beginPath(),e.ellipse(q.x,0,32*(q.d.sz||1),7,0,0,7),e.fill()),function(){if(!q||q.d.ig||"wait"!==b&&"bowing"!==b)return;e.save(),e.translate(0,-z);const t=144;e.strokeStyle="rgba(0,0,0,.18)",e.lineWidth=3,e.setLineDash([6,8]),e.beginPath(),e.arc(0,0,t,0,7),e.stroke(),e.setLineDash([]);const n=q.target*Math.PI/180;e.strokeStyle="rgba(224,49,49,.85)",e.lineWidth=5,e.beginPath(),e.moveTo(130*Math.sin(n),130*-Math.cos(n)),e.lineTo(158*Math.sin(n),158*-Math.cos(n)),e.stroke(),e.fillStyle="#e03131",e.beginPath(),e.arc(164*Math.sin(n),164*-Math.cos(n),5,0,7),e.fill(),e.restore()}(),function(){if(!q)return;const t=q,n=t.d,o=n.sz||1;e.save(),e.translate(t.x,t.y),"fly"===t.state&&(e.translate(0,-80*o),e.rotate(t.rot),e.translate(0,80*o)),e.scale(o,o),e.textAlign="center",e.textBaseline="middle";const a="walkin"===b||"out"===t.state?.35*Math.sin(performance.now()/70):0;0!==n.body?(e.strokeStyle="#222",e.lineWidth=12,e.lineCap="round",e.beginPath(),e.moveTo(-6,-50),e.lineTo(24*Math.sin(a)-6,-6),e.moveTo(6,-50),e.lineTo(6-24*Math.sin(a),-6),e.stroke(),e.translate(0,-50),e.rotate(t.tilt),e.fillStyle=n.c||"#555",it(-21,-66,42,70,11),e.fill(),e.strokeStyle="rgba(0,0,0,.15)",e.lineWidth=2,e.stroke(),e.font="58px sans-serif",e.fillText(n.e,0,-92)):(e.translate(0,-10),e.rotate(.6*t.tilt+.15*a),e.font="90px sans-serif",e.fillText(n.e,0,-38)),e.restore()}(),e.strokeStyle="#2b3a55",e.lineWidth=14,e.lineCap="round",e.beginPath(),e.moveTo(-7,-z),e.lineTo(-11,-8),e.moveTo(7,-z),e.lineTo(9,-8),e.stroke(),e.fillStyle="#111",e.beginPath(),e.ellipse(-6,-4,13,6,0,0,7),e.ellipse(15,-4,13,6,0,0,7),e.fill(),z>100&&(e.fillStyle="#2b3a55",e.font="900 12px sans-serif",e.textAlign="center",e.fillStyle="rgba(0,0,0,.35)",e.fillText("ﾋﾞﾖｰﾝ",-30,-z/2)),W.forEach((t,e)=>{L>300&&e%2==1&&lt(t,.18)}),lt(P,1),e.restore(),rt(),function(){if("title"===b)return;const t=Math.max(82,.11*a);if(e.textAlign="center",e.textBaseline="middle",q&&("wait"===b||"bowing"===b||"judge"===b)&&!q.d.ig){e.font="900 "+Math.min(64,.16*o)+'px "M PLUS Rounded 1c",sans-serif',e.lineWidth=8,e.strokeStyle="#fff",e.strokeText(Math.floor(P)+"°",o/2,t),e.fillStyle="bowing"===b?"#c92a2a":"#34495e",e.fillText(Math.floor(P)+"°",o/2,t),e.font='800 15px "M PLUS Rounded 1c",sans-serif',e.fillStyle="#495057";const n=q.target,a=Math.floor(n/360);e.fillText("目標 "+n+"°"+(a?"（"+a+"周＋"+n%360+"°）":""),o/2,t+Math.min(40,.1*o))}if("wait"===b&&w<2&&(e.font='900 18px "M PLUS Rounded 1c",sans-serif',e.fillStyle="rgba(0,0,0,.55)",e.fillText(q.d.ig?"押さずに待て…":"長押しでおじぎ → 目標で離す！",o/2,et+.55*(a-et))),"judge"===b&&j){const t=.6+.4*Math.min(1,6*(1.3-I))+0;e.save(),e.translate(o/2,.42*a),e.scale(t,t),e.font="900 "+Math.min(48,.11*o,(o-28)/j.txt.length)+'px "M PLUS Rounded 1c",sans-serif',e.lineWidth=9,e.strokeStyle="#fff",e.strokeText(j.txt,0,0),e.fillStyle=j.col,e.fillText(j.txt,0,0),e.font='900 22px "M PLUS Rounded 1c",sans-serif',e.lineWidth=6,e.strokeText(j.sub,0,44),e.fillText(j.sub,0,44),e.restore()}}(),function(){e.textAlign="center",e.textBaseline="middle";for(const t of U)e.save(),e.globalAlpha=Math.min(1,2*t.life),e.translate(t.x,t.y),e.rotate(t.rot),"★"===t.ch?(e.fillStyle=t.col,e.font="900 "+t.sz+"px sans-serif",e.fillText("★",0,0)):(e.font=t.sz+"px sans-serif",e.fillText(t.ch,0,0)),e.restore()}(),e.restore()}const ft=[[0,"新入社員"],[1500,"係長"],[4e3,"課長"],[8e3,"部長"],[14e3,"専務"],[22e3,"社長"],[35e3,"会長"],[5e4,"おじぎの神"]],ct=["南極支社","月面出張所","無人島営業所","地下100m支店","火星支社","砂漠の真ん中出張所"];n("bStart").onclick=()=>{d(),N()},n("bRetry").onclick=()=>{d(),N()},n("bestT").textContent=k?"ベスト "+k.toLocaleString()+" 点":"";let dt=performance.now();requestAnimationFrame(function t(e){const n=Math.min(.05,(e-dt)/1e3);dt=e,"title"!==b&&"over"!==b||"title"!==b?at(n):function(t){et=.8*a;const e=performance.now()/1e3;P=200*(.5*Math.sin(1.3*e)+.5);const n=Math.max(80,-Math.cos(P*Math.PI/180)*M+28);z=n>z?n:z+(n-z)*Math.min(1,4*t);const i=Math.min((o-16)/485,.5*a/250);G=Math.min(i,(et-150)/(z+M+40)),tt=8+172*G}(n),st(),requestAnimationFrame(t)})})();
 </script>
 <script src="../../playtime.js" defer></script>
 </body>
